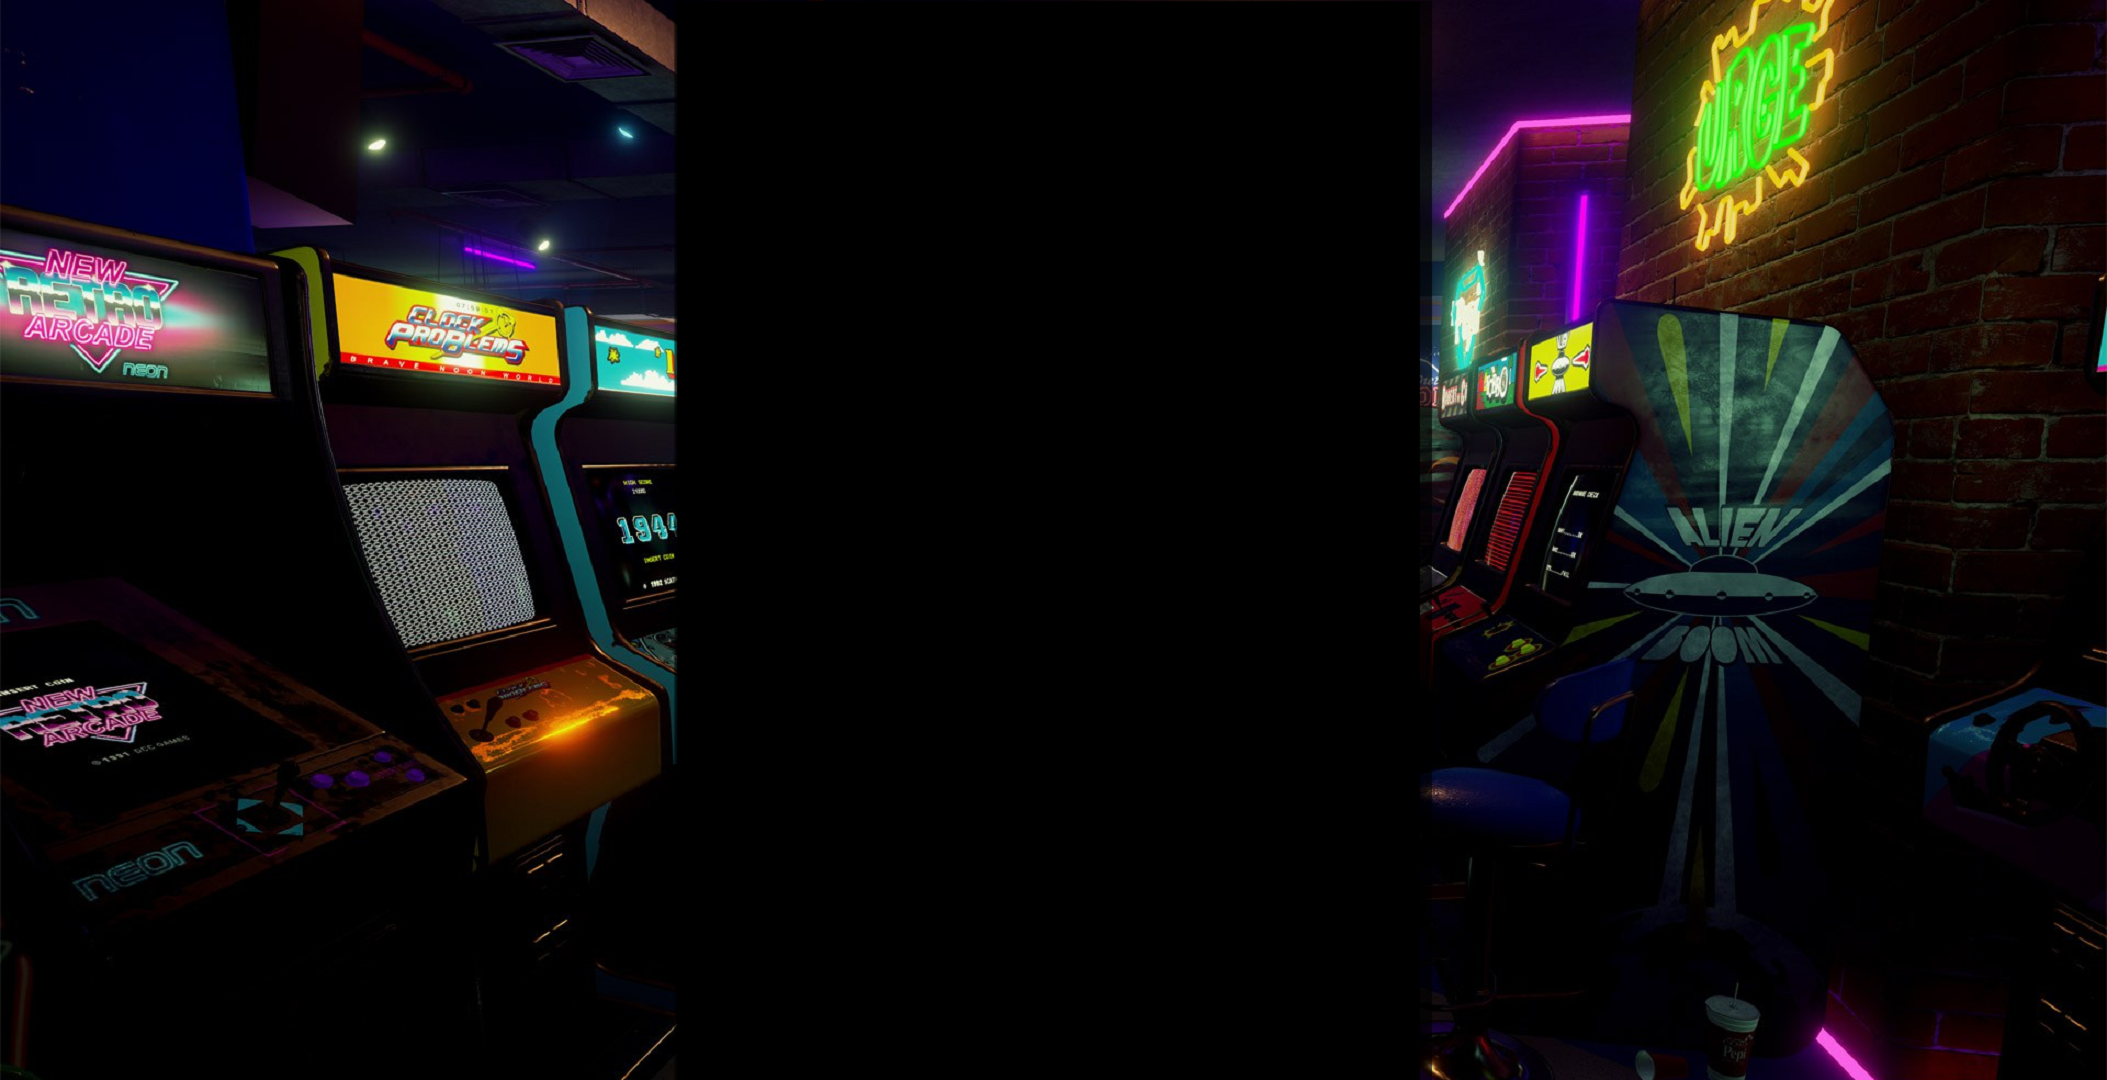
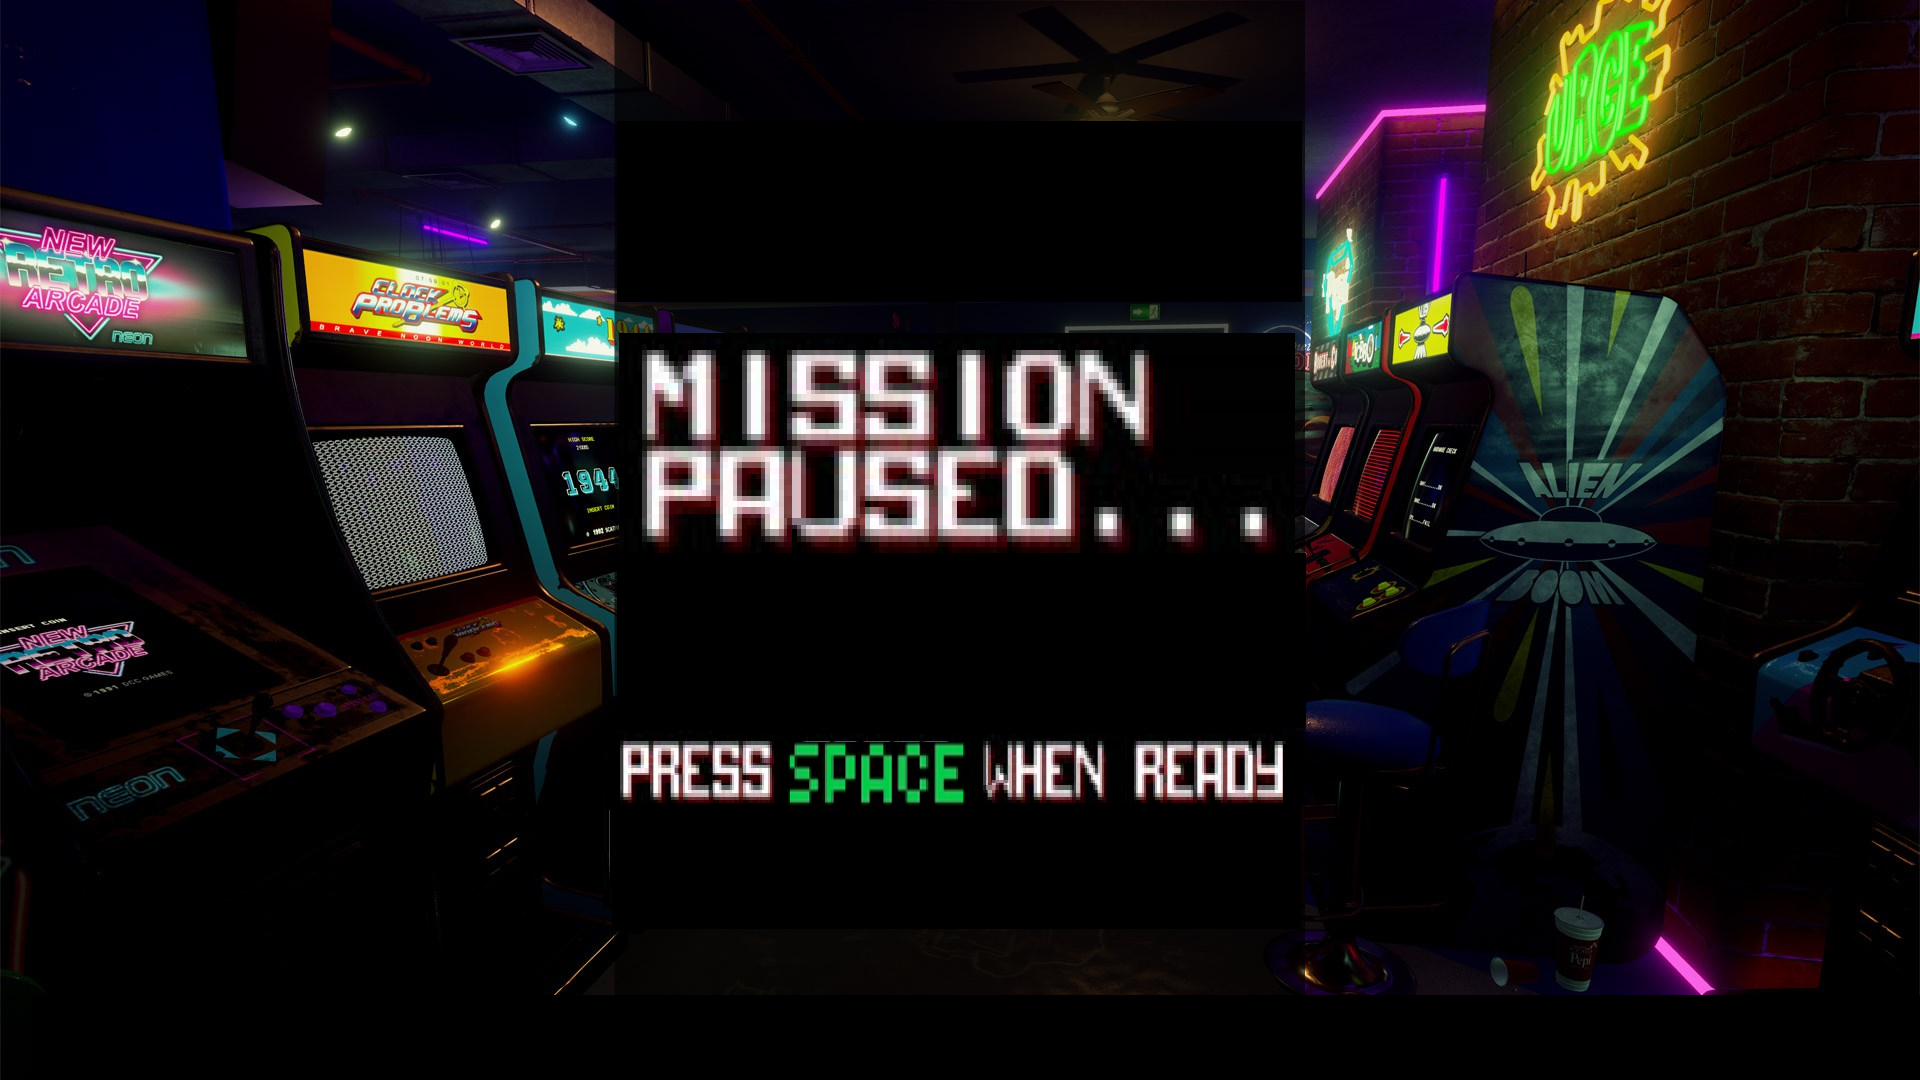
fix menu, and change visual of menu

diff --git a/Splatt/Lunar_manager.cpp b/Splatt/Lunar_manager.cpp
@@ -55,7 +55,7 @@ void Lunar_manager::TextInit(RenderWindow& _window)
 
 void Lunar_manager::Lunar_update(RenderWindow& _window)
 {
-	mPause = IsOnPause();
+	IsOnPause();
 
 	if (!mPause)
 	{
@@ -81,8 +81,8 @@ void Lunar_manager::Lunar_update(RenderWindow& _window)
 
 void Lunar_manager::Lunar_display(RenderWindow& _window)
 {
-	mPause = IsOnPause();
-	
+	IsOnPause();
+
 	if (!mPause)
 	{
 		myContainer->Display(_window);
@@ -101,9 +101,7 @@ void Lunar_manager::Lunar_display(RenderWindow& _window)
 			_window.draw(mEscText);
 	}
 	else
-	{
 		DisplayPauseMenu();
-	}
 }
 
 void Lunar_manager::TextUpdate()
@@ -132,12 +130,15 @@ void Lunar_manager::DisplayPauseMenu()
 	mMySprite.setTexture(mMyTexture);
 
 	App.draw(mMySprite);
+
+	if (Keyboard::isKeyPressed(Keyboard::Space))
+		mPause = false;
 }
 
-bool Lunar_manager::IsOnPause()
+void Lunar_manager::IsOnPause()
 {
 	if (Keyboard::isKeyPressed(Keyboard::Escape))
-		return true;
+		mPause = !mPause;
 }
 
 Lunar_manager::~Lunar_manager()

diff --git a/Splatt/Lunar_player.cpp b/Splatt/Lunar_player.cpp
@@ -117,7 +117,6 @@ void Lander::Collide(RenderWindow& _window, GroundContainer& _myContainer)
 
 			if (_myContainer.GetImage().getPixel(x, y) == Color::Green && mVelocity.y < .5f && mIsAlive)
 				Landing(_window, _myContainer);
-			
 		}
 	}
 }
@@ -146,7 +145,7 @@ void Lander::ResetPlayer()
 }
 
 bool Lander::HasFuel()
-{	
+{
 	if (mFuel <= 0)
 	{
 		mIsAlive = false;
@@ -177,7 +176,6 @@ void Lander::Explode()
 	mSprite.setScale(Vector2f(2.0f, 2.0f));
 	mSprite.setTextureRect(IntRect(0, 0, mTexture.getSize().x, mTexture.getSize().y));
 	mSprite.setOrigin(mSprite.getGlobalBounds().width / 2, mSprite.getGlobalBounds().height / 2);
-
 
 	mIsAlive = false;
 }

diff --git a/Splatt/Lunar_manager.h b/Splatt/Lunar_manager.h
@@ -21,6 +21,7 @@ private:
 	Text mEscText;
 	Font mMyFont;
 
+	bool mIsMenuOn;
 	bool mPause;
 
 public:
@@ -31,7 +32,7 @@ public:
 	void TextUpdate();
 	bool PlayerHasNoFuel();
 	void DisplayPauseMenu();
-	bool IsOnPause();
+	void IsOnPause();
 	~Lunar_manager();
 
 };
